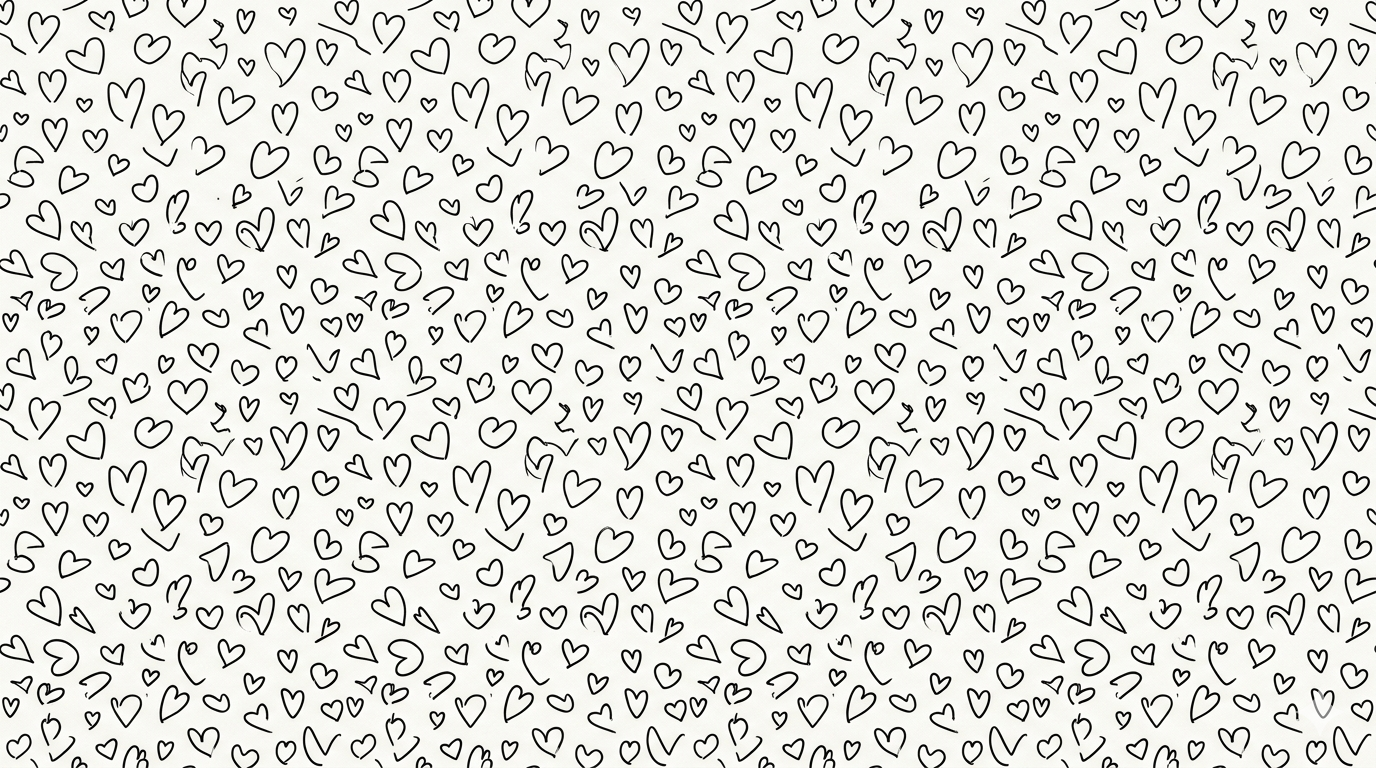
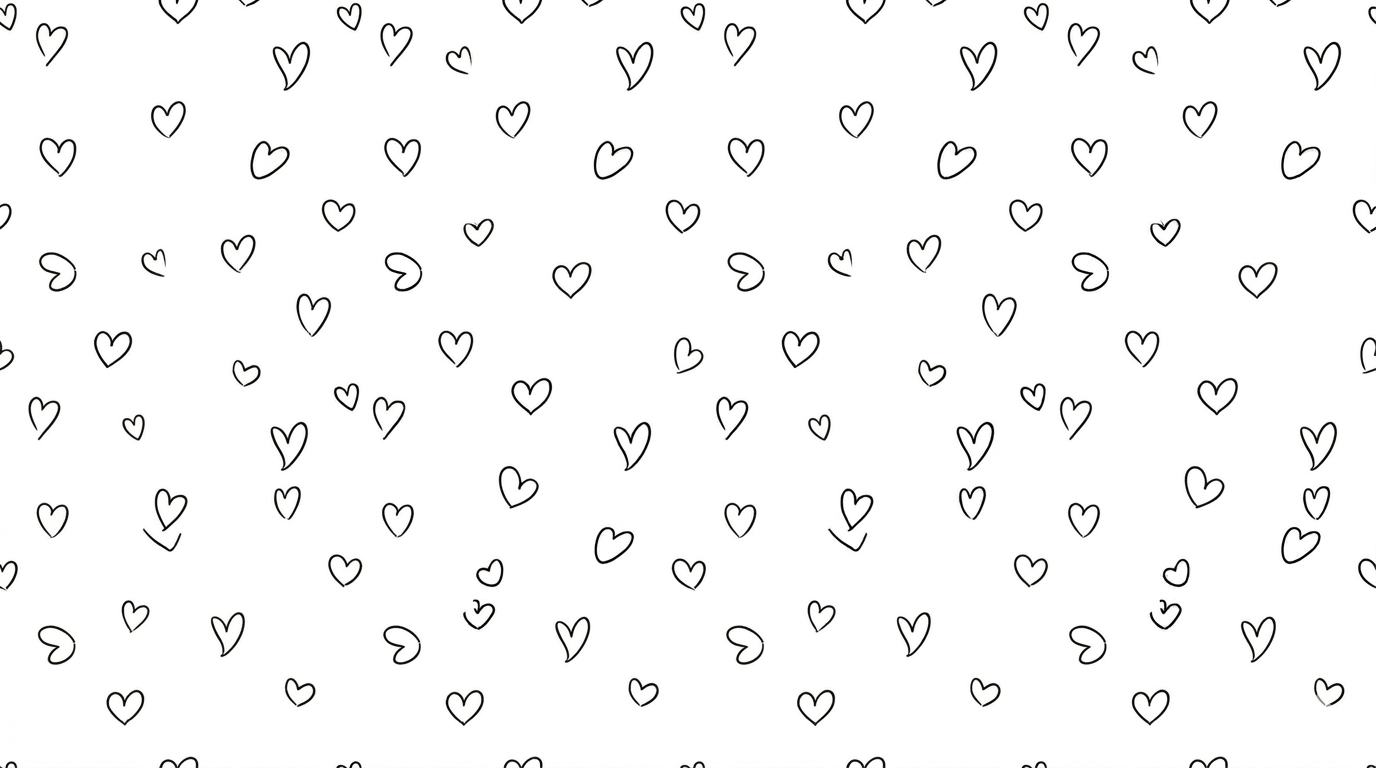
add heart bg

Changed region(s): [[0.0, 0.0, 1.0, 1.0]]

diff --git a/wedding-frontend/src/components/HeartWelcomeOverlay.tsx b/wedding-frontend/src/components/HeartWelcomeOverlay.tsx
@@ -37,11 +37,13 @@ export default function HeartWelcomeOverlay({
     >
       {/* Heart pattern background */}
       <div
-        className="absolute inset-0 opacity-[0.06]"
+        className="absolute inset-0"
         style={{
           backgroundImage: 'url("/images/heart-bg.png")',
           backgroundSize: "600px",
           backgroundRepeat: "repeat",
+          opacity: 0.03,
+          scale: 3,
         }}
       />
 
@@ -225,7 +227,11 @@ export default function HeartWelcomeOverlay({
               style={{ borderColor: `${primaryColor}20` }}
             />
             <span className="flex items-center justify-center gap-2.5">
-              <svg viewBox="0 0 24 24" className="w-4 h-4" style={{ fill: primaryColor }}>
+              <svg
+                viewBox="0 0 24 24"
+                className="w-4 h-4"
+                style={{ fill: primaryColor }}
+              >
                 <path d="M12 21.35l-1.45-1.32C5.4 15.36 2 12.28 2 8.5 2 5.42 4.42 3 7.5 3c1.74 0 3.41.81 4.5 2.09C13.09 3.81 14.76 3 16.5 3 19.58 3 22 5.42 22 8.5c0 3.78-3.4 6.86-8.55 11.54L12 21.35z" />
               </svg>
               Mở Thiệp Mời

diff --git a/wedding-frontend/src/components/templates/Template3.tsx b/wedding-frontend/src/components/templates/Template3.tsx
@@ -295,7 +295,8 @@ export default function Template3({ wedding, locale }: TemplateProps) {
           backgroundImage: 'url("/images/heart-bg.png")',
           backgroundSize: "500px",
           backgroundRepeat: "repeat",
-          opacity: 0.05,
+          opacity: 0.03,
+          scale: 3,
         }}
       />
 
